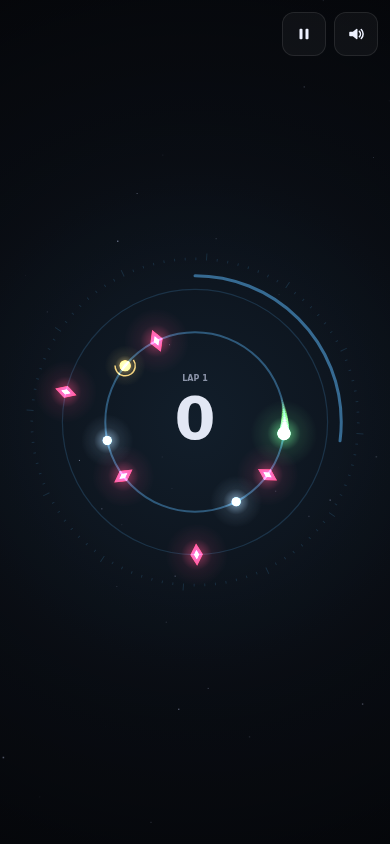
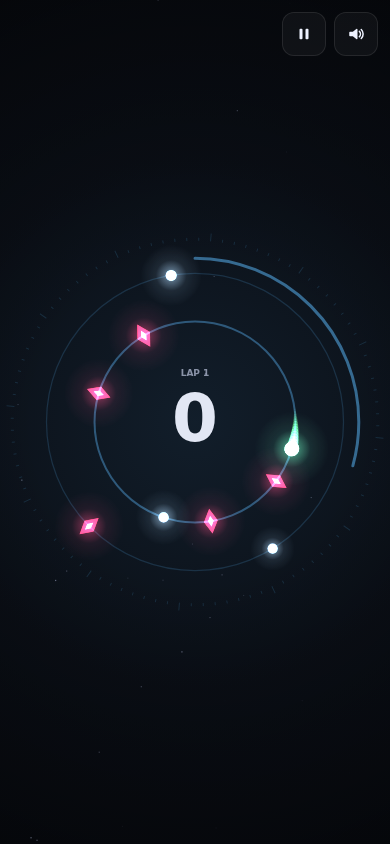
Arena run: spawn progress
Claude-Session: https://claude.ai/code/session_01EPW2mXoS81stx9h1gXyWSK

diff --git a/.arena/run-20261001-122657-s810702/scratch/a002/t2.js b/.arena/run-20261001-122657-s810702/scratch/a002/t2.js
@@ -1,0 +1,15 @@
+const { chromium } = require('playwright');
+(async () => {
+  const b = await chromium.launch({ executablePath: '/opt/pw-browsers/chromium-1194/chrome-linux/chrome' });
+  const p = await b.newPage({ viewport: { width: 1280, height: 800 } });
+  const errs = []; p.on('pageerror', e => errs.push(e.message));
+  await p.goto('file://' + process.cwd() + '/index.html');
+  await p.click('#playBtn');
+  let shot=false;
+  for (let i=0;i<200;i++){ const ov = await p.evaluate(()=>document.getElementById('over').classList.contains('show')); if(ov) break; await p.waitForTimeout(150); if(Math.random()<0.3) await p.keyboard.press('Space'); if(i==40&&!shot){shot=true;await p.screenshot({path:'desk.png'});} }
+  await p.waitForTimeout(900);
+  console.log('badge', await p.evaluate(()=>document.getElementById('oBest').className), await p.evaluate(()=>document.getElementById('oScore').textContent));
+  await p.screenshot({path:'over2.png'});
+  console.log(errs);
+  await b.close();
+})();
